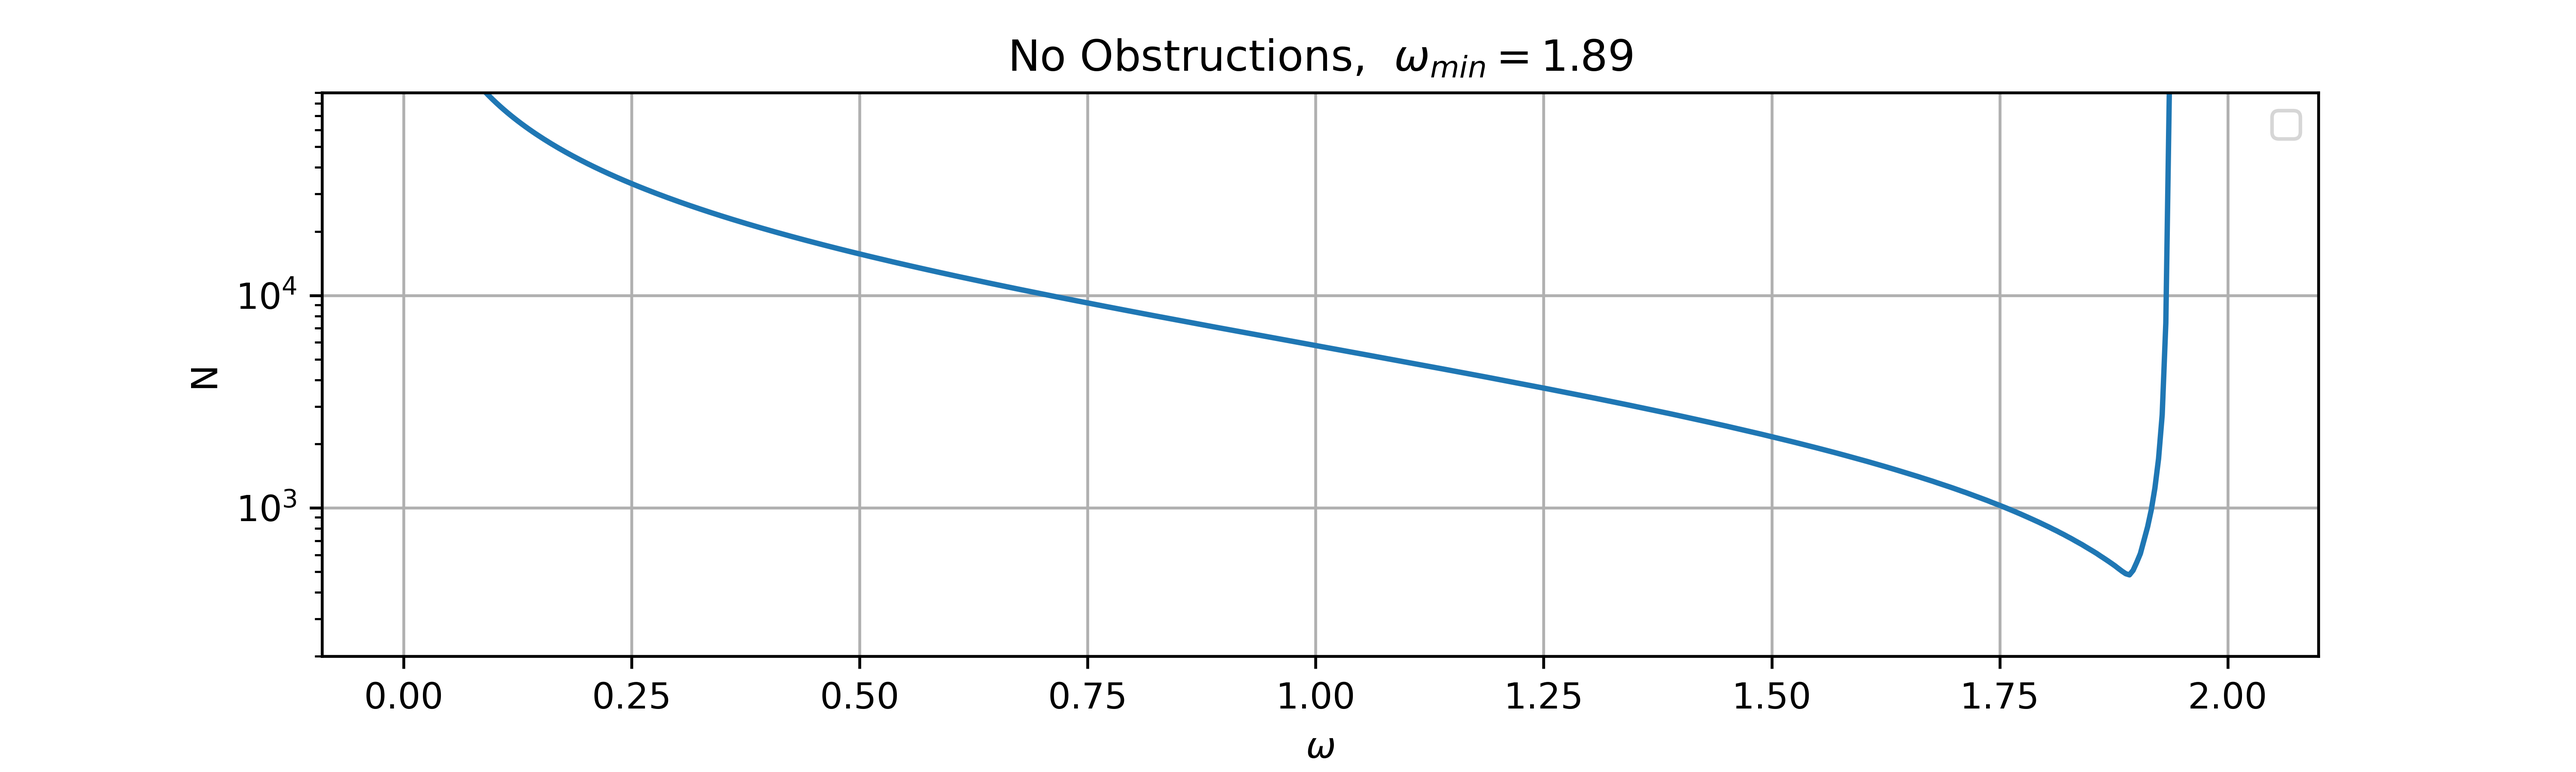
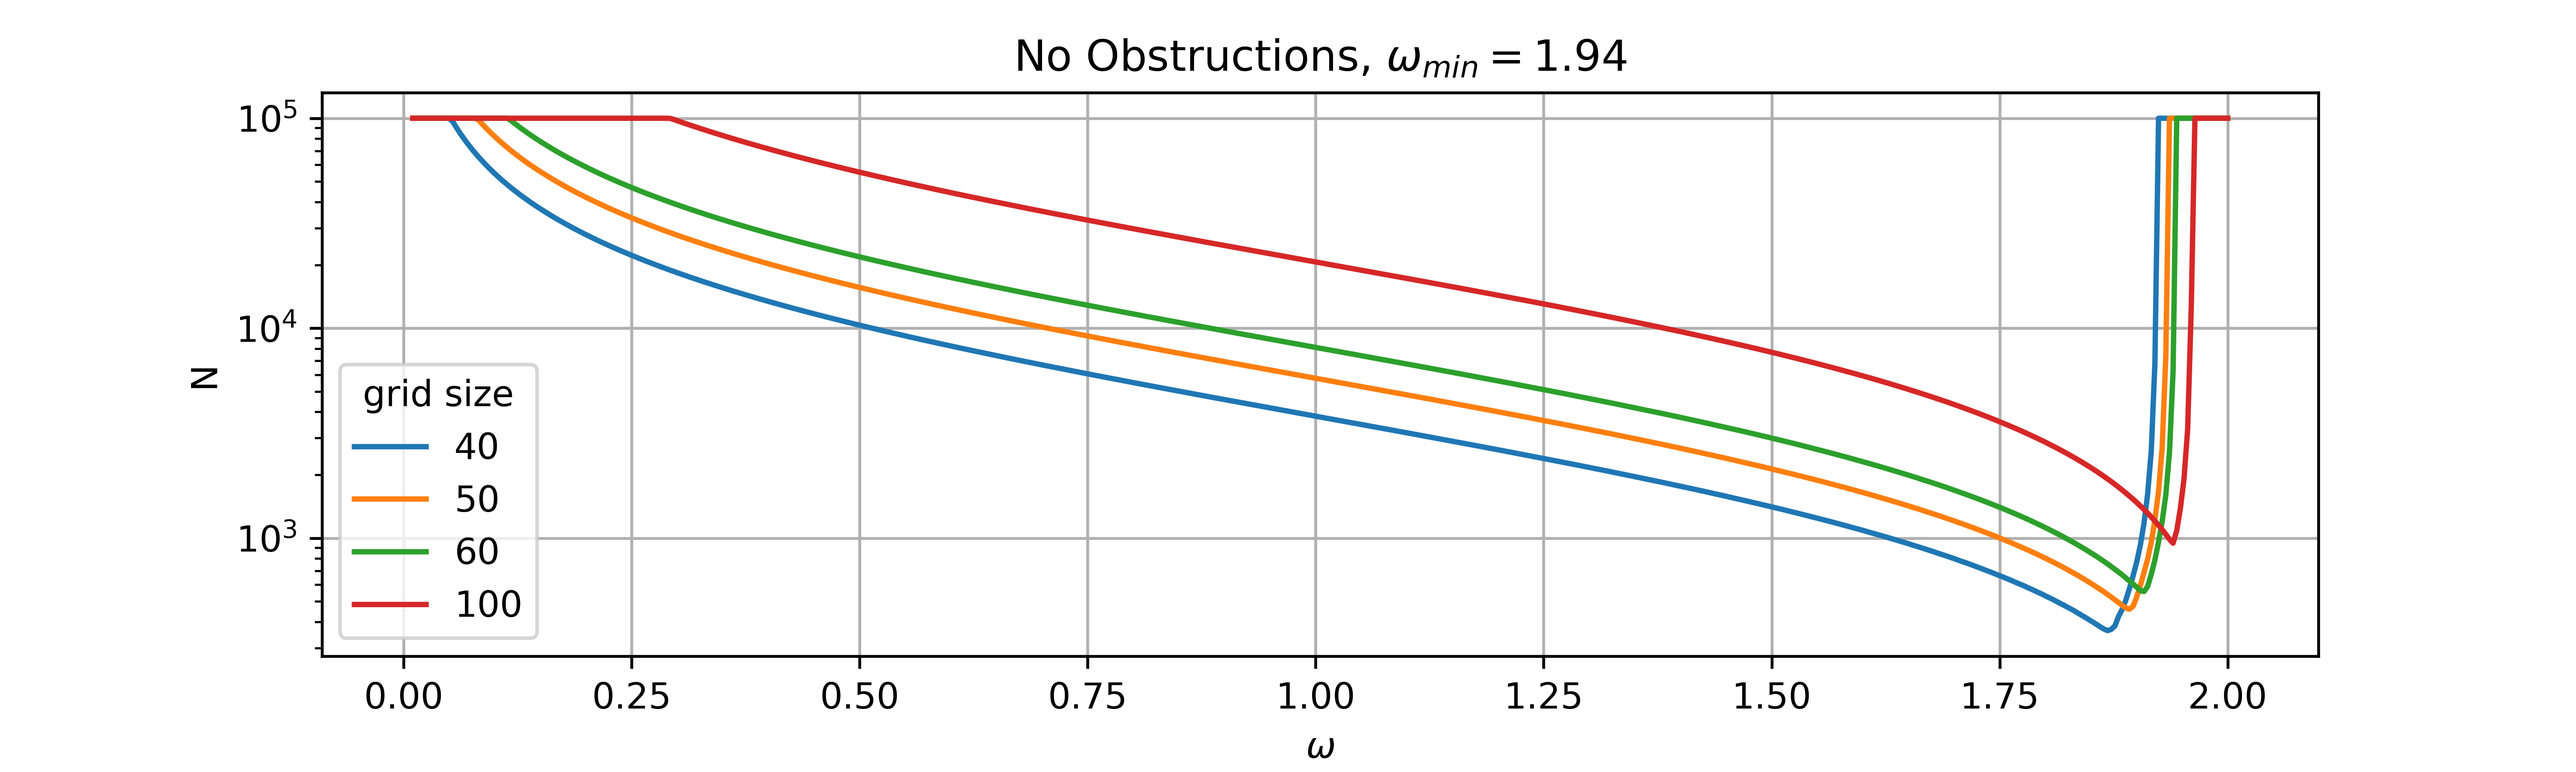
I done J started

diff --git a/src/main_SOR.py b/src/main_SOR.py
@@ -25,13 +25,13 @@ def main(mask=None):
     # sor_diffusion.plot_y_slice(0)
     
     
-def iter_to_convergence_SOR(tolerances, omega, max_steps=100000, mask=None):
+def iter_to_convergence_SOR(tolerances, omega, max_steps=100000, mask=None, grid_size = 50):
     Ns = np.zeros_like(tolerances)
     for i, tolerance in enumerate(tolerances):
         
         x_length = 1.0
         y_length = 1.0
-        n_steps = 50
+        n_steps = grid_size
         time_step_num = max_steps
         # omega = 0.1
         # """
@@ -153,8 +153,8 @@ def iter_to_convergence_plot_inv():
     plt.legend()
     # plt.xscale('log')
     plt.yscale('log')
-    plt.ylabel(r'$\varepsilon$')
-    plt.xlabel('iteration')
+    plt.ylabel(r'$\varepsilon^k$', rotation=0)
+    plt.xlabel('k')
     plt.title('Number of Iterations to Converge')
     plt.savefig('plots/num_iter_vs_tol_inv.png', dpi=600)
     # plt.show()
@@ -170,31 +170,34 @@ def min_val_approximation(x, y, dx = 1):
     return x_min, y_min
     
     
-def optimal_omega_plot(mask = None, title='No Obstructions', file ='plots/opt_omega_full.png' ):
+def optimal_omega_plot(mask = None, title='No Obstructions', file ='plots/opt_omega_full.png', grid_sizes=[50], tolerance=1e-8 ):
     omegas = np.linspace(0.01, 2, 500)
     Ns = np.zeros_like(omegas)
-    tolerance = [1e-8]
+    tolerance = [tolerance]
     
-    for i, omega in enumerate(omegas):
-        N = iter_to_convergence_SOR(tolerance, omega, max_steps=100000, mask = mask)
-        Ns[i] = N
-        
     plt.figure(figsize=[10,3])
     plt.tight_layout()
     
     plt.subplots_adjust(bottom=0.15)
-    plt.plot(omegas, Ns)
-    w_min, N_min = min_val_approximation(omegas, Ns)
-    # print(p, N_min)
-    print('Minimum omega at {:.5f}'.format( w_min))
+    for grid_size in grid_sizes:
+        for i, omega in enumerate(omegas):
+            N = iter_to_convergence_SOR(tolerance, omega, max_steps=100000, mask = mask,grid_size=grid_size)
+            Ns[i] = N
+            
+        plt.plot(omegas, Ns, label=grid_size)
+        w_min, N_min = min_val_approximation(omegas, Ns)
+        # print(p, N_min)
+        print('Minimum omega at {:.5f} with {} samples'.format( w_min, N_min))
     plt.grid()
-    plt.legend()
+    if len(grid_sizes) >1:
+        plt.legend(title='grid size')
+    # plt.legend()
     # plt.xscale('log')
     plt.yscale('log')
     plt.xlabel(r'$\omega$')
     plt.ylabel('N')
-    plt.title(title + r',  $\omega_{min} = ${:.2f}'.format(w_min))
-    plt.ylim([2e2,9e4])
+    plt.title(title + r', $\omega_{min} = $' + '{:.2f}'.format(w_min))
+    # plt.ylim([2e2,9e4])
     plt.savefig(file, dpi=600)
     
     
@@ -216,7 +219,7 @@ def optimal_omega_plot_inv(mask = None, title='No Sinks', file ='plots/opt_omega
     # print(p, N_min)
     print('Minimum omega at {:.5f}'.format( w_min))
     plt.grid()
-    plt.legend()
+    # plt.legend()
     # plt.xscale('log')
     plt.yscale('log')
     plt.xlabel(r'$\omega$')
@@ -229,14 +232,15 @@ def optimal_omega_plot_inv(mask = None, title='No Sinks', file ='plots/opt_omega
 
 if __name__ == '__main__':
     
-    mask = np.ones([50, 50])    
-    mask[-10,5:10] = 0
-    print(mask)
-    main(mask=mask)
+    # mask = np.ones([50, 50])    
+    # mask[-10,5:10] = 0
+    # print(mask)
+    # main(mask=mask)
     # main()
     # iter_to_convergence_plot()
     # iter_to_convergence_plot_inv()
     # optimal_omega_plot_inv(num_iter=5000, grid_size=100)
-    # optimal_omega_plot()
+    grid_sizes = [40,50,60,100]
+    optimal_omega_plot(grid_sizes=grid_sizes, tolerance=1e-12)
     
     

diff --git a/src/finite_difference.py b/src/finite_difference.py
@@ -64,7 +64,9 @@ def SOR(c, omega, mask=None, tolerance= None):
     if mask is None:
         mask = np.ones(shape=c.shape[1:])
     for t in range(0, time_step_num - 1):
-        
+        # Top and Bottom Boundaries
+        c[t+1, 0] = c[t, 0]
+        c[t+1, -1] = 0.0
         for i in range(1, height -1):
             c[t+1, i, -1] = c[t, i, -1] # to avoid adding sink on left side
             for j in range(width):
@@ -75,9 +77,9 @@ def SOR(c, omega, mask=None, tolerance= None):
                     
 
 
-        # Top and Bottom Boundaries
-        c[t+1, -1] = c[t, -1]
-        c[t+1, 0] = 0.0
+        # # Top and Bottom Boundaries
+        # c[t+1, 0] = c[t, 0]
+        # c[t+1, -1] = 0.0
 
         if tolerance is not None:
             eps = np.max(np.abs(c[t+1] - c[t]))

diff --git a/src/SOR_diff.py b/src/SOR_diff.py
@@ -34,8 +34,8 @@ class SORDiffusion:
 
         self.c = np.zeros((self.time_step_num, self.n_steps, self.n_steps))
 
-        self.c[0, -1, :] = self.initial_condition_func(self.x_points, self.y_points)
-        self.c[0, 0, :] = 0.0
+        self.c[0, 0, :] = self.initial_condition_func(self.x_points, self.y_points)
+        self.c[0, -1, :] = 0.0
  
         # if self.omega > 2.0:
         #     raise ValueError(f"SOR becomes unstable for omega > 2, please use a smaller value. Current value: {self.omega}")
